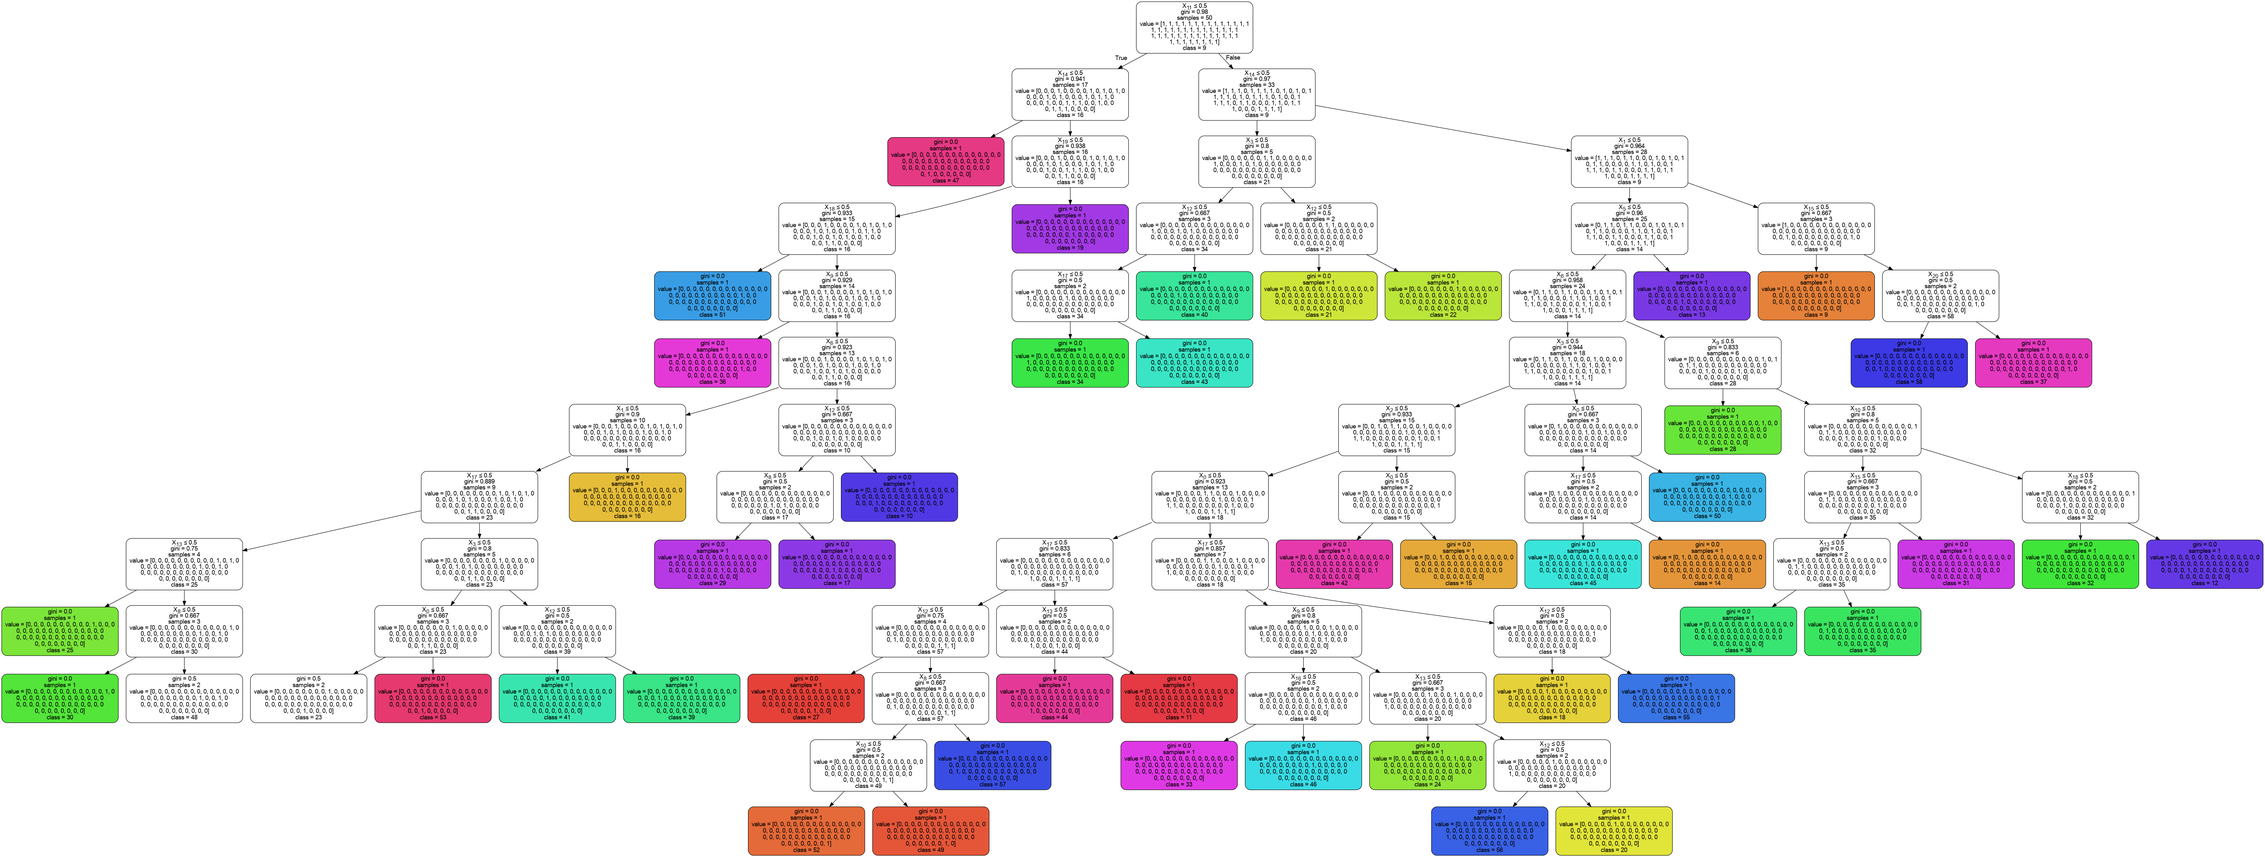
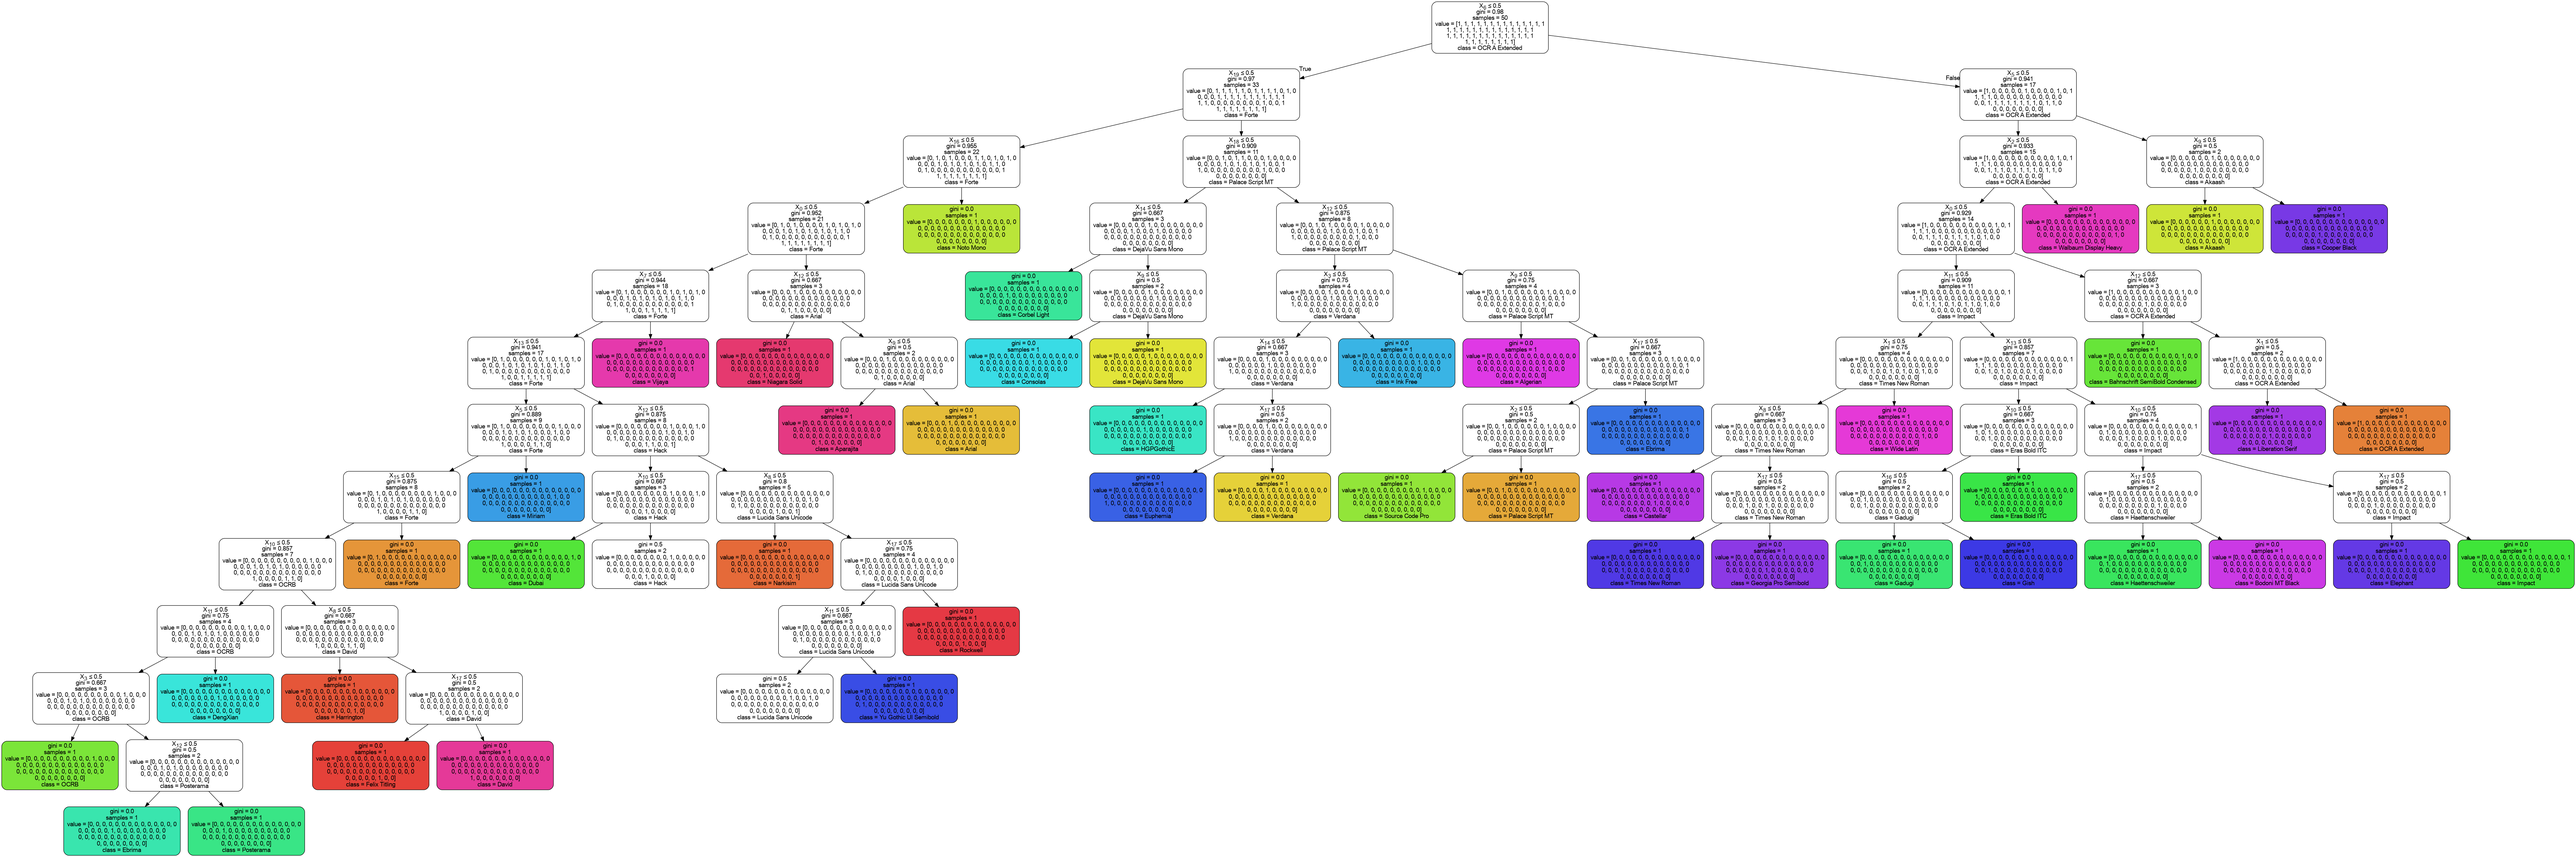
priprava dat na prezentaciu

diff --git a/src/trees.py b/src/trees.py
@@ -19,15 +19,53 @@ def createTreeClasifier(dataArr):
     drawGraph(clf,Y)
 
 
+def loadFontMap(filePath):
+    file = open(filePath)
+    lines = file.readlines()
+    file.close()
+    d = {}
+    for l in lines:
+        space = l.find(' ')
+        id = int(l[:space])
+        name = l[space+1:len(l)-1]
+        d[id] = name
+    return d
 
 
-def drawGraph(clf, Y):
+def drawFromCSV(filename):
+    data = pd.read_csv(filename)
+    Y = data['0']
+    xheaders = [str(x) for x in range(1, 22)]
+    X = data[xheaders]
+    clf = DecisionTreeClassifier()
+    clf.fit(X, Y)
+    pred = clf.predict(X)
+
+    print("Accuracy:", metrics.accuracy_score(Y, pred))
+    drawGraph(clf, Y)
+
+
+def drawFromCSVSmall(filename):
+    data = pd.read_csv(filename)
+    Y = data['0']
+    xheaders = [str(x) for x in range(1, 11)]
+    X = data[xheaders]
+    clf = DecisionTreeClassifier()
+    clf.fit(X.head(10), Y.head(10))
+    pred = clf.predict(X.head(10))
+
+    print("Accuracy:", metrics.accuracy_score(Y.head(10), pred))
+    drawGraph(clf, Y,"smallTree.png")
+
+
+def drawGraph(clf, Y, imageName="tree.png"):
     dot_data = open("trees.dot","w+")
+    fontmap = loadFontMap('data/fonts.txt')
     export_graphviz(clf, out_file=dot_data,
                     filled=True, rounded=True,
-                    special_characters=True, class_names=[str(x) for x in Y])
+                    special_characters=True, class_names=[fontmap[x] for x in Y])
     dot_data.close()
     dot_data = open("trees.dot","r")
     graph = pydotplus.graph_from_dot_data(dot_data.read())
-    graph.write_png('tree.png')
+    graph.write_png(imageName)
     Image(graph.create_png())

diff --git a/app.py b/app.py
@@ -12,9 +12,12 @@ def print_hi(name):
 
 # Press the green button in the gutter to run the script.
 if __name__ == '__main__':
-    trees.createTreeClasifier(database.getFontData());
-    database.saveDataCSV();
-    database.saveMaps()
+    # trees.createTreeClasifier(database.getFontData());
+    # database.saveDataCSV();
+    # database.saveMaps();
+
+    trees.drawFromCSV("data/answers-12-14-2020::15:07:44.csv")
+    trees.drawFromCSVSmall("data/answers-12-14-2020::15:07:44.csv")
 
 
 # See PyCharm help at https://www.jetbrains.com/help/pycharm/
